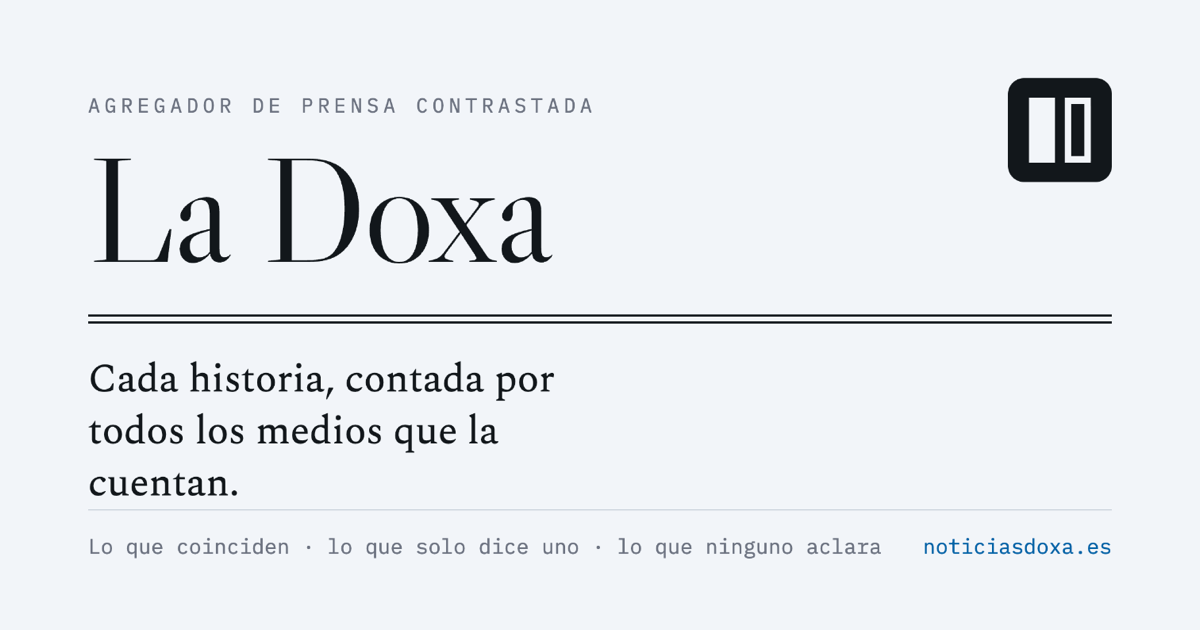
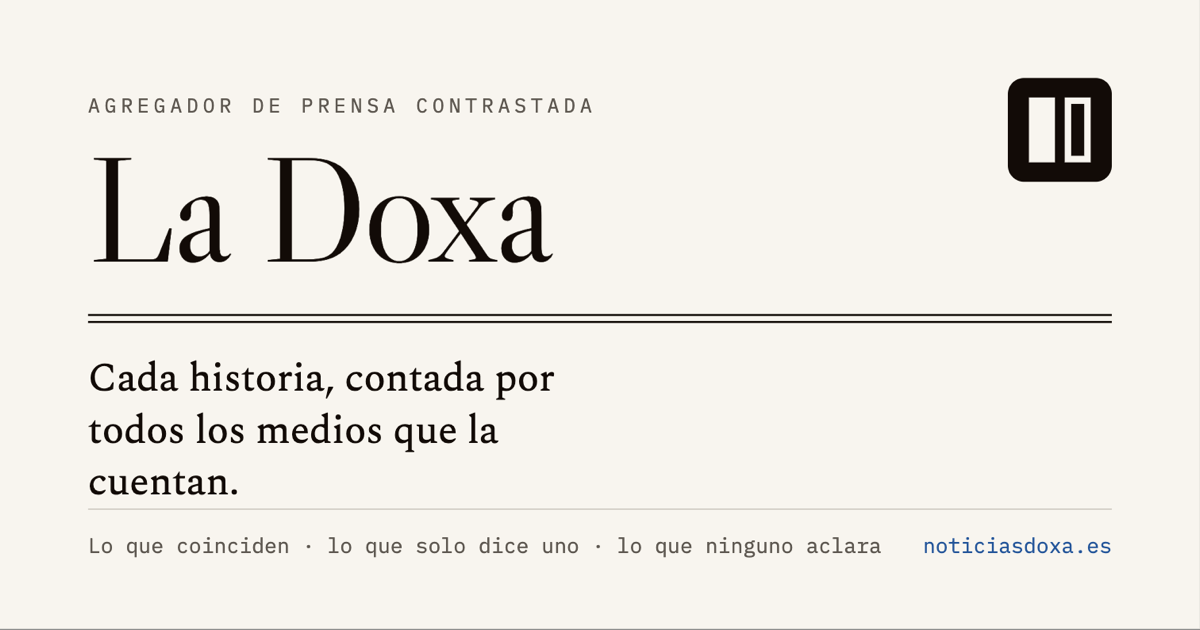
Paleta cálida con más contraste y un sistema de movimiento
Dos peticiones del propietario: más calor y legibilidad, y que la web no
parezca de 2001. Las dos tocan design.md, que es la autoridad del diseño, así
que se cambia ahí y no solo en el CSS.

PALETA. El papel pasa de tono 250 (frío) a ~60-85 (crema) en los dos temas.
No es un cambio estético: medido con la fórmula WCAG, --color-neutral sobre
--color-paper daba 4,25:1, POR DEBAJO del mínimo AA de 4,5 — y es el color de
toda la metadata en monoespaciada (colofón, pies de ficha, recuentos). Ahora
6,53 en claro y 7,16 en oscuro, verificado sobre la página renderizada.
design.md fija el suelo: 4,5:1 cualquier texto, 7:1 prosa, y obliga a volver a
medir al tocar un color. El icono y og.png se rehacen con los hex nuevos.

MOVIMIENTO. design.md § Motion decía "ninguna"; ahora es un sistema con una
regla: el movimiento confirma una acción o acompaña algo que entra, nunca
decora. Duraciones y curva por token. Dos límites duros:
- prefers-reduced-motion lo apaga entero, y lo que el revelado esconde se
  esconde DENTRO de esa media query.
- Nunca se oculta lo que ya está en pantalla al cargar: hacerlo retrasa el LCP
  y deja la portada en blanco si el JS falla. El revelado por scroll solo se
  aplica a lo que está bajo el pliegue; la entrada de la primera pantalla la
  hace el CSS, que no depende de nada.

BOTÓN DE TEMA. Los iconos pasan de `display` a un único token numérico
--es-oscuro (0/1): de un número se puede interpolar opacidad y giro, de
[…]

diff --git a/src/styles/global.css b/src/styles/global.css
@@ -14,16 +14,23 @@
 @import "tailwindcss";
 
 @theme {
-  /* ---- Paleta Newsprint (design.md § Theme) ---- */
-  --color-paper: oklch(97% 0.006 250);
-  --color-paper-2: oklch(94% 0.008 250);
-  --color-rule: oklch(84% 0.008 250);
-  --color-neutral: oklch(56% 0.010 250);
-  --color-muted: oklch(42% 0.010 250);
-  --color-ink: oklch(20% 0.012 250);
-  --color-accent: oklch(48% 0.140 245);
-  --color-focus: oklch(55% 0.180 245);
-  --color-alerta: oklch(48% 0.150 25);
+  /* ---- Paleta Newsprint (design.md § Theme) ----
+     Papel CÁLIDO desde el 2026-08-13: el tono pasó de 250 (azul) a ~60-85
+     (crema), que es el color real del papel de periódico, y de paso subió el
+     contraste de todo el texto secundario. El cambio no fue estético: medido
+     con la fórmula WCAG, `neutral` sobre `paper` daba **4,25:1**, por debajo
+     del mínimo AA de 4,5 — y `neutral` es el color de TODA la metadata en
+     monoespaciada (colofón, pies de ficha, recuentos). Ahora da 6,53.
+     Si tocas estos valores, vuelve a medir; el aspecto engaña. */
+  --color-paper: oklch(97% 0.010 85);
+  --color-paper-2: oklch(94% 0.014 82);
+  --color-rule: oklch(75% 0.018 78);
+  --color-neutral: oklch(46% 0.016 70);
+  --color-muted: oklch(34% 0.016 65);
+  --color-ink: oklch(16% 0.018 60);
+  --color-accent: oklch(44% 0.150 245);
+  --color-focus: oklch(52% 0.180 245);
+  --color-alerta: oklch(45% 0.165 28);
 
   /* ---- Regla 2+1: tres familias como techo ---- */
   --font-display: "Libre Caslon Display", ui-serif, Georgia, serif;
@@ -68,12 +75,18 @@
   --page-gutter: clamp(1rem, 4vw, 2.5rem);
   --measure: 64ch;
 
-  /* Qué icono enseña el botón de tema. Es un token y no una regla de CSS
-     porque así viaja en los MISMOS tres bloques que los colores: el icono no
-     puede desincronizarse del tema aunque se toque uno de los dos. De día se
-     ofrece la luna (lo que vas a activar), de noche el sol. */
-  --icono-sol: none;
-  --icono-luna: block;
+  /* Estado del tema como NÚMERO (0 claro · 1 oscuro), no como `display`.
+     Es la pieza que hace que el botón se anime: de un número se puede
+     interpolar opacidad y giro, de `display: none` no se puede interpolar
+     nada. Vive en los mismos tres bloques que los colores, así que el icono
+     no puede desincronizarse del tema. */
+  --es-oscuro: 0;
+
+  /* ---- Movimiento (design.md § Motion) ---- */
+  --curva: cubic-bezier(0.22, 0.61, 0.36, 1);
+  --dur-corta: 180ms;
+  --dur-media: 320ms;
+  --dur-larga: 520ms;
 
   /* Series de la gráfica de tendencias (uPlot las lee por getComputedStyle). */
   --serie-1: oklch(48% 0.140 245);
@@ -104,15 +117,15 @@
    ------------------------------------------------------------------------ */
 @media (prefers-color-scheme: dark) {
   :root:not([data-theme="light"]) {
-    --color-paper: oklch(16% 0.012 250);
-    --color-paper-2: oklch(20% 0.012 250);
-    --color-rule: oklch(32% 0.010 250);
-    --color-neutral: oklch(60% 0.010 250);
-    --color-muted: oklch(72% 0.008 250);
-    --color-ink: oklch(93% 0.006 250);
-    --color-accent: oklch(76% 0.130 245);
-    --color-focus: oklch(80% 0.160 245);
-    --color-alerta: oklch(72% 0.140 25);
+    --color-paper: oklch(17% 0.014 70);
+    --color-paper-2: oklch(21% 0.016 70);
+    --color-rule: oklch(44% 0.018 72);
+    --color-neutral: oklch(70% 0.018 78);
+    --color-muted: oklch(82% 0.014 82);
+    --color-ink: oklch(96% 0.010 88);
+    --color-accent: oklch(80% 0.130 245);
+    --color-focus: oklch(84% 0.160 245);
+    --color-alerta: oklch(76% 0.140 30);
 
     --serie-1: oklch(76% 0.130 245);
     --serie-2: oklch(72% 0.140 25);
@@ -123,22 +136,21 @@
     --serie-7: oklch(70% 0.120 340);
     --serie-8: oklch(80% 0.090 100);
 
-    --icono-sol: block;
-    --icono-luna: none;
+    --es-oscuro: 1;
   }
 }
 
 /* Estado 3: oscuro elegido a mano, con el sistema en claro. Mismos valores. */
 :root[data-theme="dark"] {
-  --color-paper: oklch(16% 0.012 250);
-  --color-paper-2: oklch(20% 0.012 250);
-  --color-rule: oklch(32% 0.010 250);
-  --color-neutral: oklch(60% 0.010 250);
-  --color-muted: oklch(72% 0.008 250);
-  --color-ink: oklch(93% 0.006 250);
-  --color-accent: oklch(76% 0.130 245);
-  --color-focus: oklch(80% 0.160 245);
-  --color-alerta: oklch(72% 0.140 25);
+  --color-paper: oklch(17% 0.014 70);
+  --color-paper-2: oklch(21% 0.016 70);
+  --color-rule: oklch(44% 0.018 72);
+  --color-neutral: oklch(70% 0.018 78);
+  --color-muted: oklch(82% 0.014 82);
+  --color-ink: oklch(96% 0.010 88);
+  --color-accent: oklch(80% 0.130 245);
+  --color-focus: oklch(84% 0.160 245);
+  --color-alerta: oklch(76% 0.140 30);
 
   --serie-1: oklch(76% 0.130 245);
   --serie-2: oklch(72% 0.140 25);
@@ -149,8 +161,7 @@
   --serie-7: oklch(70% 0.120 340);
   --serie-8: oklch(80% 0.090 100);
 
-  --icono-sol: block;
-  --icono-luna: none;
+  --es-oscuro: 1;
 }
 
 /* Que los controles nativos (scrollbars, selects, autofill) sigan al tema
@@ -328,12 +339,40 @@
   .tema:hover {
     color: var(--color-accent);
   }
-  /* El icono lo elige el tema, no el script: ver --icono-sol/--icono-luna. */
+  /* Los dos iconos están SIEMPRE en el DOM, superpuestos: solo así hay algo
+     que animar. `--es-oscuro` vale 0 o 1 y de él salen las dos propiedades —
+     el que se va gira y se encoge, el que entra gira hasta 0 y crece. Un
+     único número gobierna las dos mitades, así que no pueden contradecirse. */
+  .tema-iconos {
+    position: relative;
+    width: 15px;
+    height: 15px;
+    flex: none;
+  }
+  .tema-sol,
+  .tema-luna {
+    position: absolute;
+    inset: 0;
+    transition:
+      opacity var(--dur-media) var(--curva),
+      transform var(--dur-larga) var(--curva);
+  }
   .tema-sol {
-    display: var(--icono-sol);
+    opacity: var(--es-oscuro);
+    transform: rotate(calc((1 - var(--es-oscuro)) * -120deg))
+      scale(calc(0.4 + 0.6 * var(--es-oscuro)));
   }
   .tema-luna {
-    display: var(--icono-luna);
+    opacity: calc(1 - var(--es-oscuro));
+    transform: rotate(calc(var(--es-oscuro) * 120deg))
+      scale(calc(1 - 0.6 * var(--es-oscuro)));
+  }
+  /* El botón entero acusa el clic: un giro corto que confirma la acción. */
+  .tema:active .tema-iconos {
+    transform: rotate(-25deg);
+  }
+  .tema-iconos {
+    transition: transform var(--dur-corta) var(--curva);
   }
   /* El texto es para lectores de pantalla y pantallas anchas; en móvil el
      icono basta y ahorra el salto de línea de la navegación. */
@@ -1149,5 +1188,111 @@
   }
   .lista-acelera a:hover {
     text-decoration: underline;
+  }
+}
+
+/* ==========================================================================
+   MOVIMIENTO (design.md § Motion)
+   --------------------------------------------------------------------------
+   El sistema decía "ninguna" hasta el 2026-08-13. Ahora hay movimiento, pero
+   con tres reglas que lo mantienen del lado del periódico y no del carrusel:
+
+   1. Nada se mueve por decoración: o confirma una acción (hover, clic del
+      tema) o acompaña a algo que ENTRA (cabecera al cargar, fichas al
+      aparecer). Nada parpadea, nada rebota, nada se repite en bucle.
+   2. Todo cuelga de --dur-* y --curva. No hay duraciones sueltas.
+   3. `prefers-reduced-motion` lo apaga entero — y de verdad: el revelado se
+      esconde solo dentro de `no-preference`, así que quien pide menos
+      movimiento no ve el contenido oculto ni un instante.
+
+   El revelado además solo se esconde bajo [data-js], que pone el script en
+   línea del <head>. Si el JS no llega, el contenido está visible: nunca se
+   publica una página cuyo texto dependa de que un script arranque.
+   ========================================================================== */
+@media (prefers-reduced-motion: no-preference) {
+  @keyframes entrar {
+    from {
+      opacity: 0;
+      transform: translateY(10px);
+    }
+  }
+  @keyframes trazar {
+    from {
+      transform: scaleX(0);
+    }
+  }
+
+  /* La cabecera se compone sola al cargar, de arriba abajo, y el filete
+     doble se traza de izquierda a derecha: es la única entrada escalonada
+     del sitio y solo ocurre una vez por carga. */
+  .mast-line {
+    animation: entrar var(--dur-media) var(--curva) both;
+  }
+  .mast-name {
+    animation: entrar var(--dur-larga) var(--curva) 60ms both;
+  }
+  .mast-nav {
+    animation: entrar var(--dur-larga) var(--curva) 140ms both;
+  }
+  .mast .rule-double {
+    transform-origin: left;
+    animation: trazar var(--dur-larga) var(--curva) 200ms both;
+  }
+
+  [data-js] .revelable {
+    opacity: 0;
+    transform: translateY(14px);
+  }
+  [data-js] .revelable.visible {
+    opacity: 1;
+    transform: none;
+    transition:
+      opacity var(--dur-larga) var(--curva) var(--retraso, 0ms),
+      transform var(--dur-larga) var(--curva) var(--retraso, 0ms);
+  }
+
+  /* Micro-respuestas. Todas ≤ 180 ms: se notan, no se esperan. */
+  .mast-nav a,
+  .chip,
+  .lista-titulares a,
+  .lista-huecos a,
+  .rotulo-seccion a,
+  .enlace-accion,
+  .ficha-titular,
+  .correo a,
+  .tema {
+    transition:
+      color var(--dur-corta) var(--curva),
+      background-color var(--dur-corta) var(--curva),
+      border-color var(--dur-corta) var(--curva),
+      transform var(--dur-corta) var(--curva);
+  }
+  .chip:hover {
+    transform: translateY(-1px);
+  }
+  /* El titular reacciona al pasar por CUALQUIER punto de su ficha, no solo
+     sobre el texto: el área de clic real es la ficha entera. */
+  .ficha:hover .ficha-titular,
+  .ficha:focus-within .ficha-titular {
+    color: var(--color-accent);
+  }
+  .lista-titulares li:hover a,
+  .lista-huecos li:hover a {
+    transform: translateX(3px);
+  }
+  .tema:hover .tema-iconos {
+    transform: rotate(12deg);
+  }
+
+  /* Cambio de tema: los colores se funden en vez de saltar. La transición se
+     enciende SOLO durante el cambio (la clase la pone y la quita el script):
+     dejarla siempre puesta haría que cada hover arrastrase un fundido de
+     fondo, y que la primera pintura de la página llegara con retardo. */
+  :root.cambiando-tema,
+  :root.cambiando-tema *:not(.tema-sol):not(.tema-luna) {
+    transition:
+      background-color var(--dur-media) var(--curva),
+      color var(--dur-media) var(--curva),
+      border-color var(--dur-media) var(--curva) !important;
   }
 }
